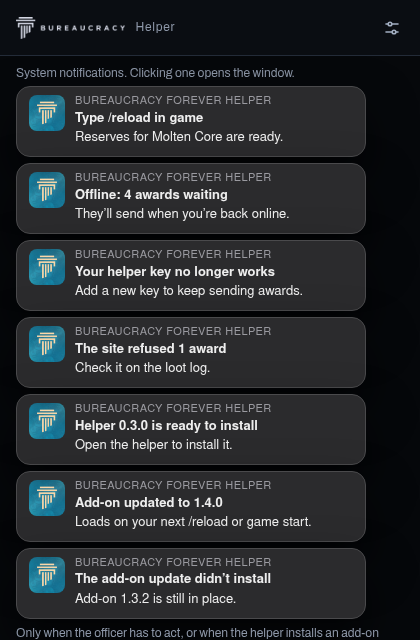
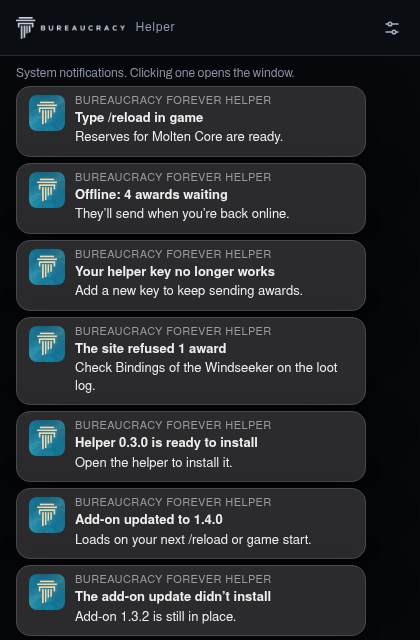
docs(design): keep the site-refused notice wording and retake the notification screenshots (#44)

Changed region(s): [[0.031, 0.5625, 0.8976, 1.0]]

diff --git a/design/2-helper-window/index.html b/design/2-helper-window/index.html
@@ -395,7 +395,7 @@ function notificationPreview() {
     ${n('Type /reload in game', 'Reserves for Molten Core are ready.')}
     ${n('Offline: 4 awards waiting', 'They’ll send when you’re back online.')}
     ${n('Your helper key no longer works', 'Add a new key to keep sending awards.')}
-    ${n('The site refused 1 award', 'Check it on the loot log.')}
+    ${n('The site refused 1 award', 'Check Bindings of the Windseeker on the loot log.')}
     ${n('Helper 0.3.0 is ready to install', 'Open the helper to install it.')}
     ${n('Add-on updated to 1.4.0', 'Loads on your next /reload or game start.')}
     ${n('The add-on update didn’t install', 'Add-on 1.3.2 is still in place.')}

diff --git a/design/2-helper-window/decisions.md b/design/2-helper-window/decisions.md
@@ -52,7 +52,7 @@ Robert, on #8, choosing option B ([comment](https://github.com/robpaolella/burea
 - **Switch off:** `addon-update` is unchanged (Install, Later, What's new).
 - **Failed automatic install:** `addon-rolled-back`, plus a system notification ("The add-on update didn't install. Add-on 1.3.2 is still in place.").
 - **Wording rule:** WoW loads add-on files only at login or /reload, so installing while the game runs is safe; the officer chooses when to reload. The notice never tells them to reload now; it says the update loads the next time they type /reload or start the game. The note's text comes from the release's "Before you update" notes. All wording is draft for Robert's review in Open Design.
-- **Notification set:** `notification` now shows seven notices. To fit them in 420×640 the prototype tightens the list's spacing, the refused notice reads "Check it on the loot log." (shorter than before), and the explanatory caption sits at the bottom and scrolls. The caption now says which add-on notices are sent.
+- **Notification set:** `notification` now shows seven notices. To fit them in 420×640 the prototype tightens the list's spacing and the explanatory caption sits at the bottom and scrolls. Existing notice wording is unchanged. The caption now says which add-on notices are sent.
 - **No new kind of element:** the switch, row, notification and Activity line already existed.
 - **Screenshots:** retaken for `settings`, `addon-updated` and `notification` (390, 1440 and real-size 420×640, in `approved/` and the `b-*` copies in `all/`), with new manifests; no other state changed. The 420×640 pictures were taken with viewport 420×640 and `?state=<s>&theme=default&bare=1`. `network.txt` is a separate offline pass over the same three states (the screenshot tool fails while network emulation is Offline); it lists only `file:` and `data:` requests.
 
